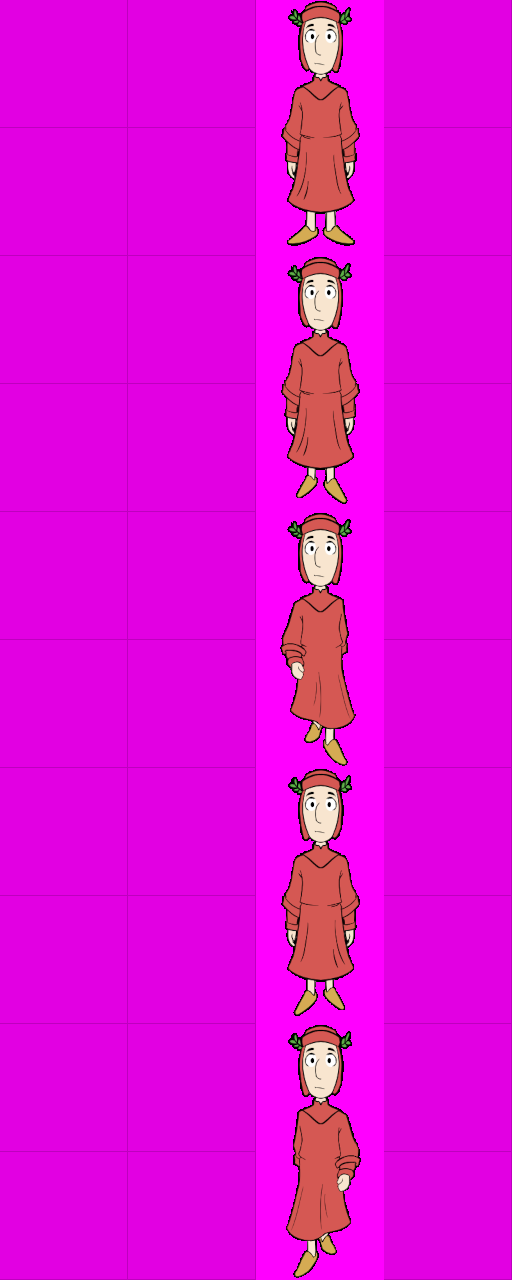
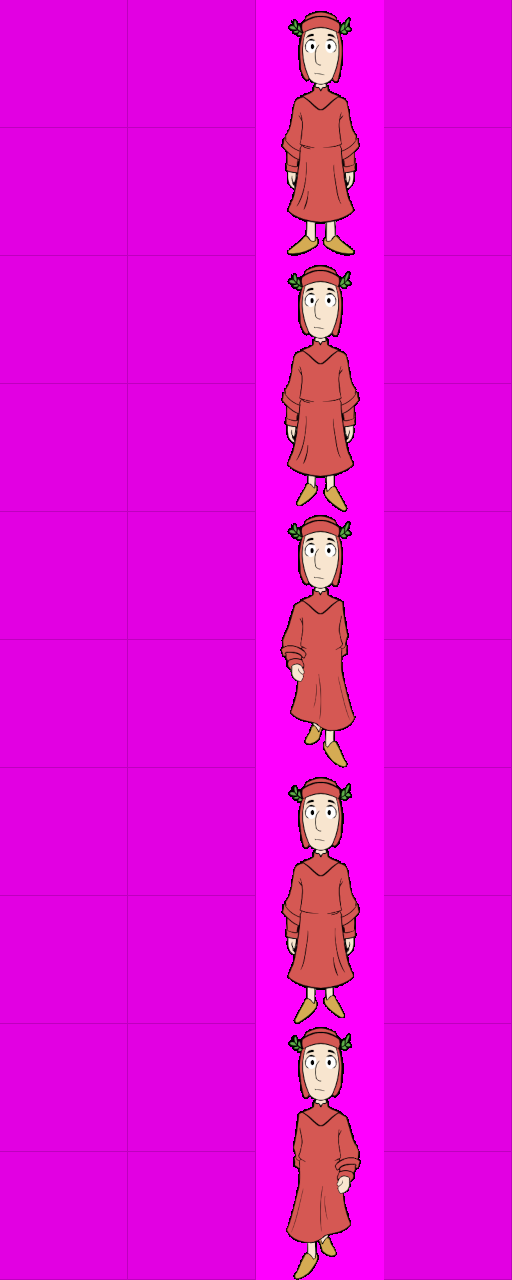
Player's movement animation only when truly moving (platforms are now excluded)

Changed region(s): [[0.5312, 0.0, 0.7188, 1.0]]

diff --git a/src/vulc/dantegame/level/entity/mob/Player.java b/src/vulc/dantegame/level/entity/mob/Player.java
@@ -13,8 +13,8 @@ import vulc.dantegame.level.tile.Tile;
 public class Player extends Mob {
 
 	public Player() {
-		xr = 48;
-		yr = 48;
+		xr = 32;
+		yr = 32;
 
 		// DEBUG
 		x = 100;
@@ -29,10 +29,10 @@ public class Player extends Mob {
 		int xt1 = Level.posToTile(x + xr - 1);
 		int yt1 = Level.posToTile(y + yr - 1);
 
-		List<Entity> inTile = level.getEntitiesInTile(xt0, yt0, xt1, yt1);
+		List<Entity> inTile = level.getEntitiesInTile(xt0 - 1, yt0 - 1, xt1 + 1, yt1 + 1);
 		MovingPlatform platform = null;
 		for(Entity e : inTile) {
-			if(e instanceof MovingPlatform) {
+			if(e instanceof MovingPlatform && e.touches(this)) {
 				platform = (MovingPlatform) e;
 				break;
 			}
@@ -58,19 +58,26 @@ public class Player extends Mob {
 
 		// do not accept movement input when there is an overlay
 		if(Game.overlay == null) {
+			// xm and ym requested by input
+			int xmIn = 0, ymIn = 0;
 			int speed = 4;
 
-			if(KeyBindings.W.down() || KeyBindings.UP.down()) ym -= speed;
-			if(KeyBindings.A.down() || KeyBindings.LEFT.down()) xm -= speed;
-			if(KeyBindings.S.down() || KeyBindings.DOWN.down()) ym += speed;
-			if(KeyBindings.D.down() || KeyBindings.RIGHT.down()) xm += speed;
+			if(KeyBindings.W.down() || KeyBindings.UP.down()) ymIn -= speed;
+			if(KeyBindings.A.down() || KeyBindings.LEFT.down()) xmIn -= speed;
+			if(KeyBindings.S.down() || KeyBindings.DOWN.down()) ymIn += speed;
+			if(KeyBindings.D.down() || KeyBindings.RIGHT.down()) xmIn += speed;
+
+			super.calculateDirAndMoveAnimation(xmIn, ymIn);
+
+			xm += xmIn;
+			ym += ymIn;
 		}
 		move(xm, ym);
 	}
 
 	public void render(Screen screen) {
 		int xDst = x - Atlas.spriteSize(4) / 2 - screen.xOffset;
-		int yDst = y - Atlas.spriteSize(8) / 2 - 80 - screen.yOffset; // player is shifted by 80 pixels in y-axix
+		int yDst = y - Atlas.spriteSize(8) / 2 - 112 - screen.yOffset; // player is shifted by 112 pixels in y-axix
 
 		if(moveAnimation == 0) {
 			Atlas.drawSprite(Atlas.PLAYER, dir * 4 * 0 + 8, 0, 4, 8,
@@ -80,6 +87,14 @@ public class Player extends Mob {
 			Atlas.drawSprite(Atlas.PLAYER, dir * 4 * 0 + 8, (1 + ((moveAnimation / 8) % 4)) * 8, 4, 8,
 			                 screen, xDst, yDst);
 		}
+
+		// uncomment to draw hitbox
+//		screen.setPixel(-screen.xOffset + x - xr, -screen.yOffset + y - yr, 0xffffff);
+//		screen.setPixel(-screen.xOffset + x + xr - 1, -screen.yOffset + y + yr - 1, 0xffffff);
+	}
+
+	protected void calculateDirAndMoveAnimation(int xm, int ym) {
+		// manually calculate (because the player can be moved by a platform)
 	}
 
 	public boolean blocks(Entity e) {

diff --git a/src/vulc/dantegame/level/entity/mob/Mob.java b/src/vulc/dantegame/level/entity/mob/Mob.java
@@ -8,8 +8,11 @@ public class Mob extends Entity {
 	public int moveAnimation = 0;
 
 	public boolean[] move(int xm, int ym) {
-		boolean[] result = super.move(xm, ym);
+		calculateDirAndMoveAnimation(xm, ym);
+		return super.move(xm, ym);
+	}
 
+	protected void calculateDirAndMoveAnimation(int xm, int ym) {
 		if(xm != 0 || ym != 0) {
 			if(xm < 0) dir = 1;
 			else if(xm > 0) dir = 3;
@@ -21,7 +24,6 @@ public class Mob extends Entity {
 		} else {
 			moveAnimation = 0;
 		}
-		return result;
 	}
 
 }

diff --git a/src/vulc/dantegame/level/Level.java b/src/vulc/dantegame/level/Level.java
@@ -95,7 +95,7 @@ public class Level {
 
 	public void render(Screen screen, int xTiles, int yTiles) {
 		screen.setOffset(Game.player.x - screen.width / 2,
-		                 Game.player.y - 80 - screen.height / 2); // player is shifted by 80 pixels in y-axix
+		                 Game.player.y - 112 - screen.height / 2); // player is shifted by 112 pixels in y-axix
 
 		int xt0 = posToTile(screen.xOffset);
 		int yt0 = posToTile(screen.yOffset);

diff --git a/src/vulc/dantegame/Game.java b/src/vulc/dantegame/Game.java
@@ -53,8 +53,8 @@ public abstract class Game {
 //		menu = new StartMenu();
 
 		level.addEntity(new RollingRock(300, 100, -1, 0));
-		level.addEntity(new MovingPlatform(0, 5, 2, new int[] {
-		    0, 5, 10, 5
+		level.addEntity(new MovingPlatform(1, 6, 2, new int[] {
+		    1, 6, 10, 6
 		}));
 	}
 

diff --git a/src/vulc/dantegame/level/entity/mob/MovingPlatform.java b/src/vulc/dantegame/level/entity/mob/MovingPlatform.java
@@ -17,6 +17,9 @@ public class MovingPlatform extends Mob {
 
 		this.speed = speed;
 		this.spots = spots;
+
+		xr = 48;
+		yr = 48;
 	}
 
 	public void tick() {
